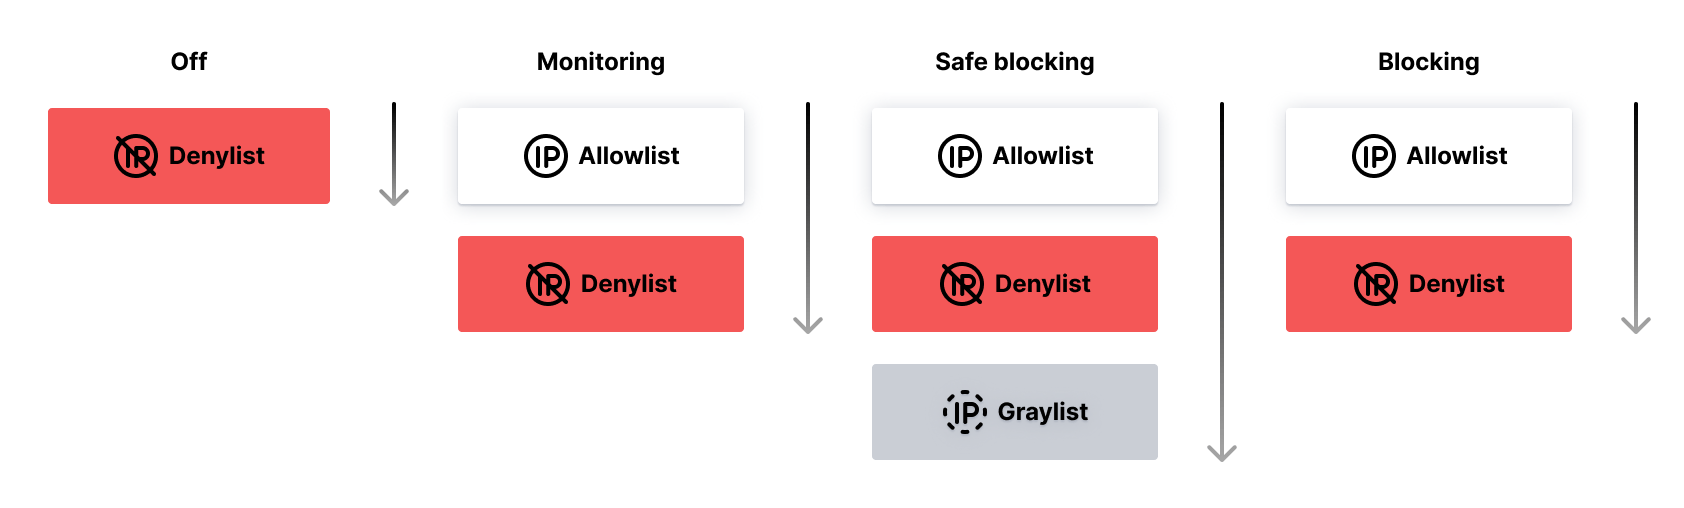
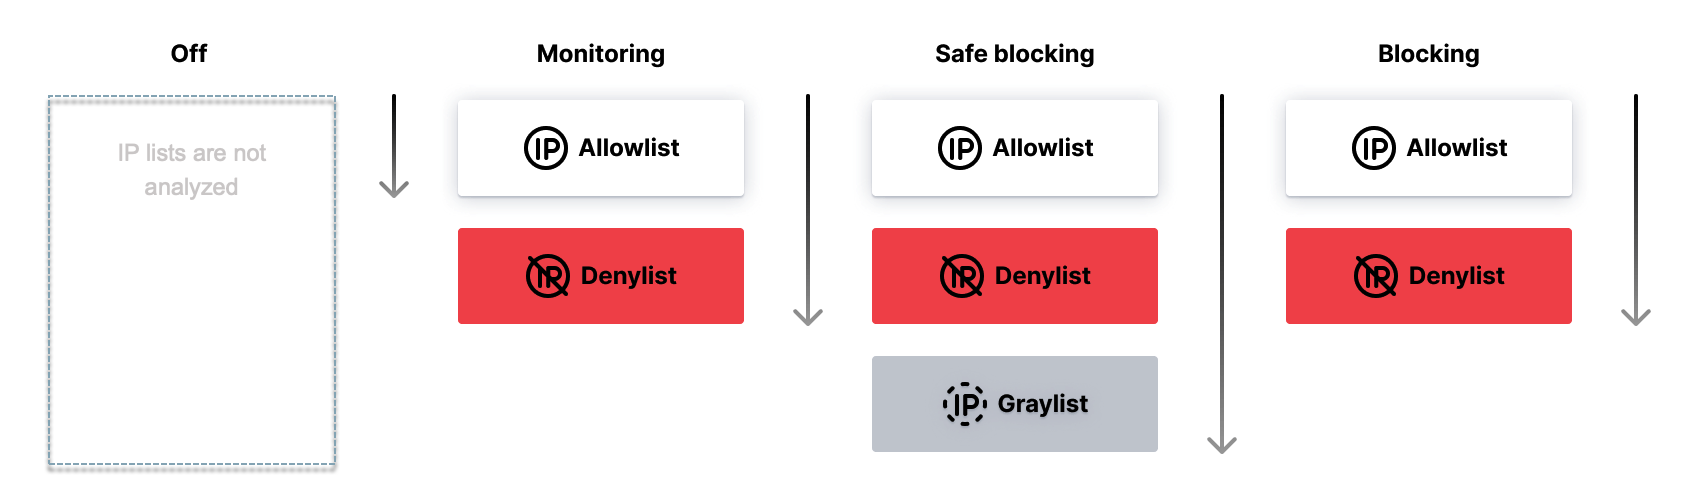
DOCS-2417 Denylist not processed when mode off

diff --git a/docs/4.8/admin-en/configure-parameters-en.md b/docs/4.8/admin-en/configure-parameters-en.md
@@ -25,13 +25,11 @@ Allows disabling analysis of requests origins. If disabled (`on`), the filtering
 
 The directive forces the NGINX-based Wallarm node to block requests originating from [denylisted](../user-guides/ip-lists/overview.md) IPs at the NGINX access phase which means:
 
-* With `wallarm_acl_access_phase on`, the Wallarm node immediately blocks any requests from denylisted IPs in any [filtration mode](configure-wallarm-mode.md) and does not search attack signs in requests from denylisted IPs.
+* With `wallarm_acl_access_phase on`, the Wallarm node immediately blocks any requests from denylisted IPs in any [filtration mode](configure-wallarm-mode.md) (except `off`) and does not search attack signs in requests from denylisted IPs.
 
     This is the **default and recommended** value since it makes denylists to work standardly and significantly reduces the load of the CPU of the node.
 
 * With `wallarm_acl_access_phase off`, the Wallarm node analyzes requests for attack signs first and then if operating in the `block` or `safe_blocking` mode blocks requests originating from denylisted IPs.
-
-    In the `off` filtration mode, the node does not analyze requests and does not check denylists.
 
     In the `monitoring` filtration mode, the node searches for attack signs in all requests but never block them even if the source IP is denylisted.
 
@@ -42,8 +40,8 @@ The directive forces the NGINX-based Wallarm node to block requests originating 
 
     The directive can be set only inside the http block of the NGINX configuration file.
 
-    * With [`disable_acl on`](#disable_acl), IP lists are not processed and enabling `wallarm_acl_access_phase` does not make sense.
-    * The `wallarm_acl_access_phase` directive has priority over [`wallarm_mode`](#wallarm_mode) which results in blocking requests from denylisted IPs even if the filtering node mode is `off` or `monitoring` (with `wallarm_acl_access_phase on`).
+    * With wallarm mode `off` or [`disable_acl on`](#disable_acl), IP lists are not processed and enabling `wallarm_acl_access_phase` does not make sense.
+    * The `wallarm_acl_access_phase` directive has priority over [`wallarm_mode`](#wallarm_mode) which results in blocking requests from denylisted IPs even if the filtering node mode is  `monitoring` (with `wallarm_acl_access_phase on`).
 
 ### wallarm_acl_export_enable
 

diff --git a/docs/latest/admin-en/configure-parameters-en.md b/docs/latest/admin-en/configure-parameters-en.md
@@ -25,13 +25,11 @@ Allows disabling analysis of requests origins. If disabled (`on`), the filtering
 
 The directive forces the NGINX-based Wallarm node to block requests originating from [denylisted](../user-guides/ip-lists/overview.md) IPs at the NGINX access phase which means:
 
-* With `wallarm_acl_access_phase on`, the Wallarm node immediately blocks any requests from denylisted IPs in any [filtration mode](configure-wallarm-mode.md) and does not search attack signs in requests from denylisted IPs.
+* With `wallarm_acl_access_phase on`, the Wallarm node immediately blocks any requests from denylisted IPs in any [filtration mode](configure-wallarm-mode.md) (except `off`) and does not search attack signs in requests from denylisted IPs.
 
     This is the **default and recommended** value since it makes denylists to work standardly and significantly reduces the load of the CPU of the node.
 
 * With `wallarm_acl_access_phase off`, the Wallarm node analyzes requests for attack signs first and then if operating in the `block` or `safe_blocking` mode blocks requests originating from denylisted IPs.
-
-    In the `off` filtration mode, the node does not analyze requests and does not check denylists.
 
     In the `monitoring` filtration mode, the node searches for attack signs in all requests but never block them even if the source IP is denylisted.
 
@@ -42,8 +40,8 @@ The directive forces the NGINX-based Wallarm node to block requests originating 
 
     The directive can be set only inside the http block of the NGINX configuration file.
 
-    * With [`disable_acl on`](#disable_acl), IP lists are not processed and enabling `wallarm_acl_access_phase` does not make sense.
-    * The `wallarm_acl_access_phase` directive has priority over [`wallarm_mode`](#wallarm_mode) which results in blocking requests from denylisted IPs even if the filtering node mode is `off` or `monitoring` (with `wallarm_acl_access_phase on`).
+    * With wallarm mode `off` or [`disable_acl on`](#disable_acl), IP lists are not processed and enabling `wallarm_acl_access_phase` does not make sense.
+    * The `wallarm_acl_access_phase` directive has priority over [`wallarm_mode`](#wallarm_mode) which results in blocking requests from denylisted IPs even if the filtering node mode is  `monitoring` (with `wallarm_acl_access_phase on`).
 
 ### wallarm_acl_export_enable
 

diff --git a/include/wallarm-modes-description-latest.md b/include/wallarm-modes-description-latest.md
@@ -3,9 +3,9 @@
 | Analyzes whether incoming requests contain malicious payloads of the following types: [input validation attacks](../about-wallarm/protecting-against-attacks.md#input-validation-attacks), [vpatch attacks](../user-guides/rules/vpatch-rule.md), or [attacks detected based on regular expressions](../user-guides/rules/regex-rule.md) | - | + | + | + |
 | Uploads malicious requests to the Wallarm Cloud so that they are displayed in the event list | - | + | + | + |
 | Blocks malicious requests | - | - | Only those originated from [graylisted IPs](../user-guides/ip-lists/overview.md) | + |
-| Blocks requests originated from [denylisted IPs](../user-guides/ip-lists/overview.md)<sup>see exceptions</sup> | + | + | + | + |
+| Blocks requests originated from [denylisted IPs](../user-guides/ip-lists/overview.md)<sup>see exceptions</sup> | Does not analyze the denylist | + | + | + |
 | Blocks requests originated from [graylisted IPs](../user-guides/ip-lists/overview.md) | Does not analyze the graylist | - | Only those containing malicious payloads | Does not analyze the graylist |
-| Allows requests originated from [allowlisted IPs](../user-guides/ip-lists/overview.md) | + | + | + | + |
+| Allows requests originated from [allowlisted IPs](../user-guides/ip-lists/overview.md) | Does not analyze the allowlist | + | + | + |
 
 !!! warning "Exceptions"
-    If [`wallarm_acl_access_phase off`][acl-access-phase], the Wallarm node does not analyze the denylist in the `off` mode and does not block requests from denylisted IPs in the `monitoring` mode.
+    If [`wallarm_acl_access_phase off`][acl-access-phase], the Wallarm node does not block requests from denylisted IPs in the `monitoring` mode.

diff --git a/docs/latest/user-guides/ip-lists/overview.md b/docs/latest/user-guides/ip-lists/overview.md
@@ -25,11 +25,10 @@ The image provided below visually represents the priorities and combinations of 
 This means that:
 
 * In any mode, if IP is found in the earlier list, the next one is not considered.
-* Denylisted IPs are blocked even when the node is in `off` or `Monitoring` mode.
 * Graylist is only considered in `Safe blocking` mode.
 
 !!! warning "Exceptions"
-    If [`wallarm_acl_access_phase off`](../../admin-en/configure-parameters-en.md#wallarm_acl_access_phase), the Wallarm node does not analyze the denylist in the `off` mode and does not block requests from denylisted IPs in the `Monitoring` mode.
+    If [`wallarm_acl_access_phase off`](../../admin-en/configure-parameters-en.md#wallarm_acl_access_phase), the Wallarm node does not block requests from denylisted IPs in the `Monitoring` mode.
 
 ## Configuring IP lists
 

diff --git a/docs/latest-ar/user-guides/ip-lists/overview.md b/docs/latest-ar/user-guides/ip-lists/overview.md
@@ -25,7 +25,6 @@
 يعني هذا أن:
 
 * في أي وضع، إذا تم العثور على الـ IP في القائمة الأولى، لا يتم اعتبار القائمة التالية.
-* الـ IPs المرفوضة تحظر حتى عندما تكون العقدة في وضع `off` أو `Monitoring`.
 * القائمة الرمادية يتم النظر فيها فقط في وضع `Safe blocking`.
 
 !!! تحذير "الاستثناءات"
